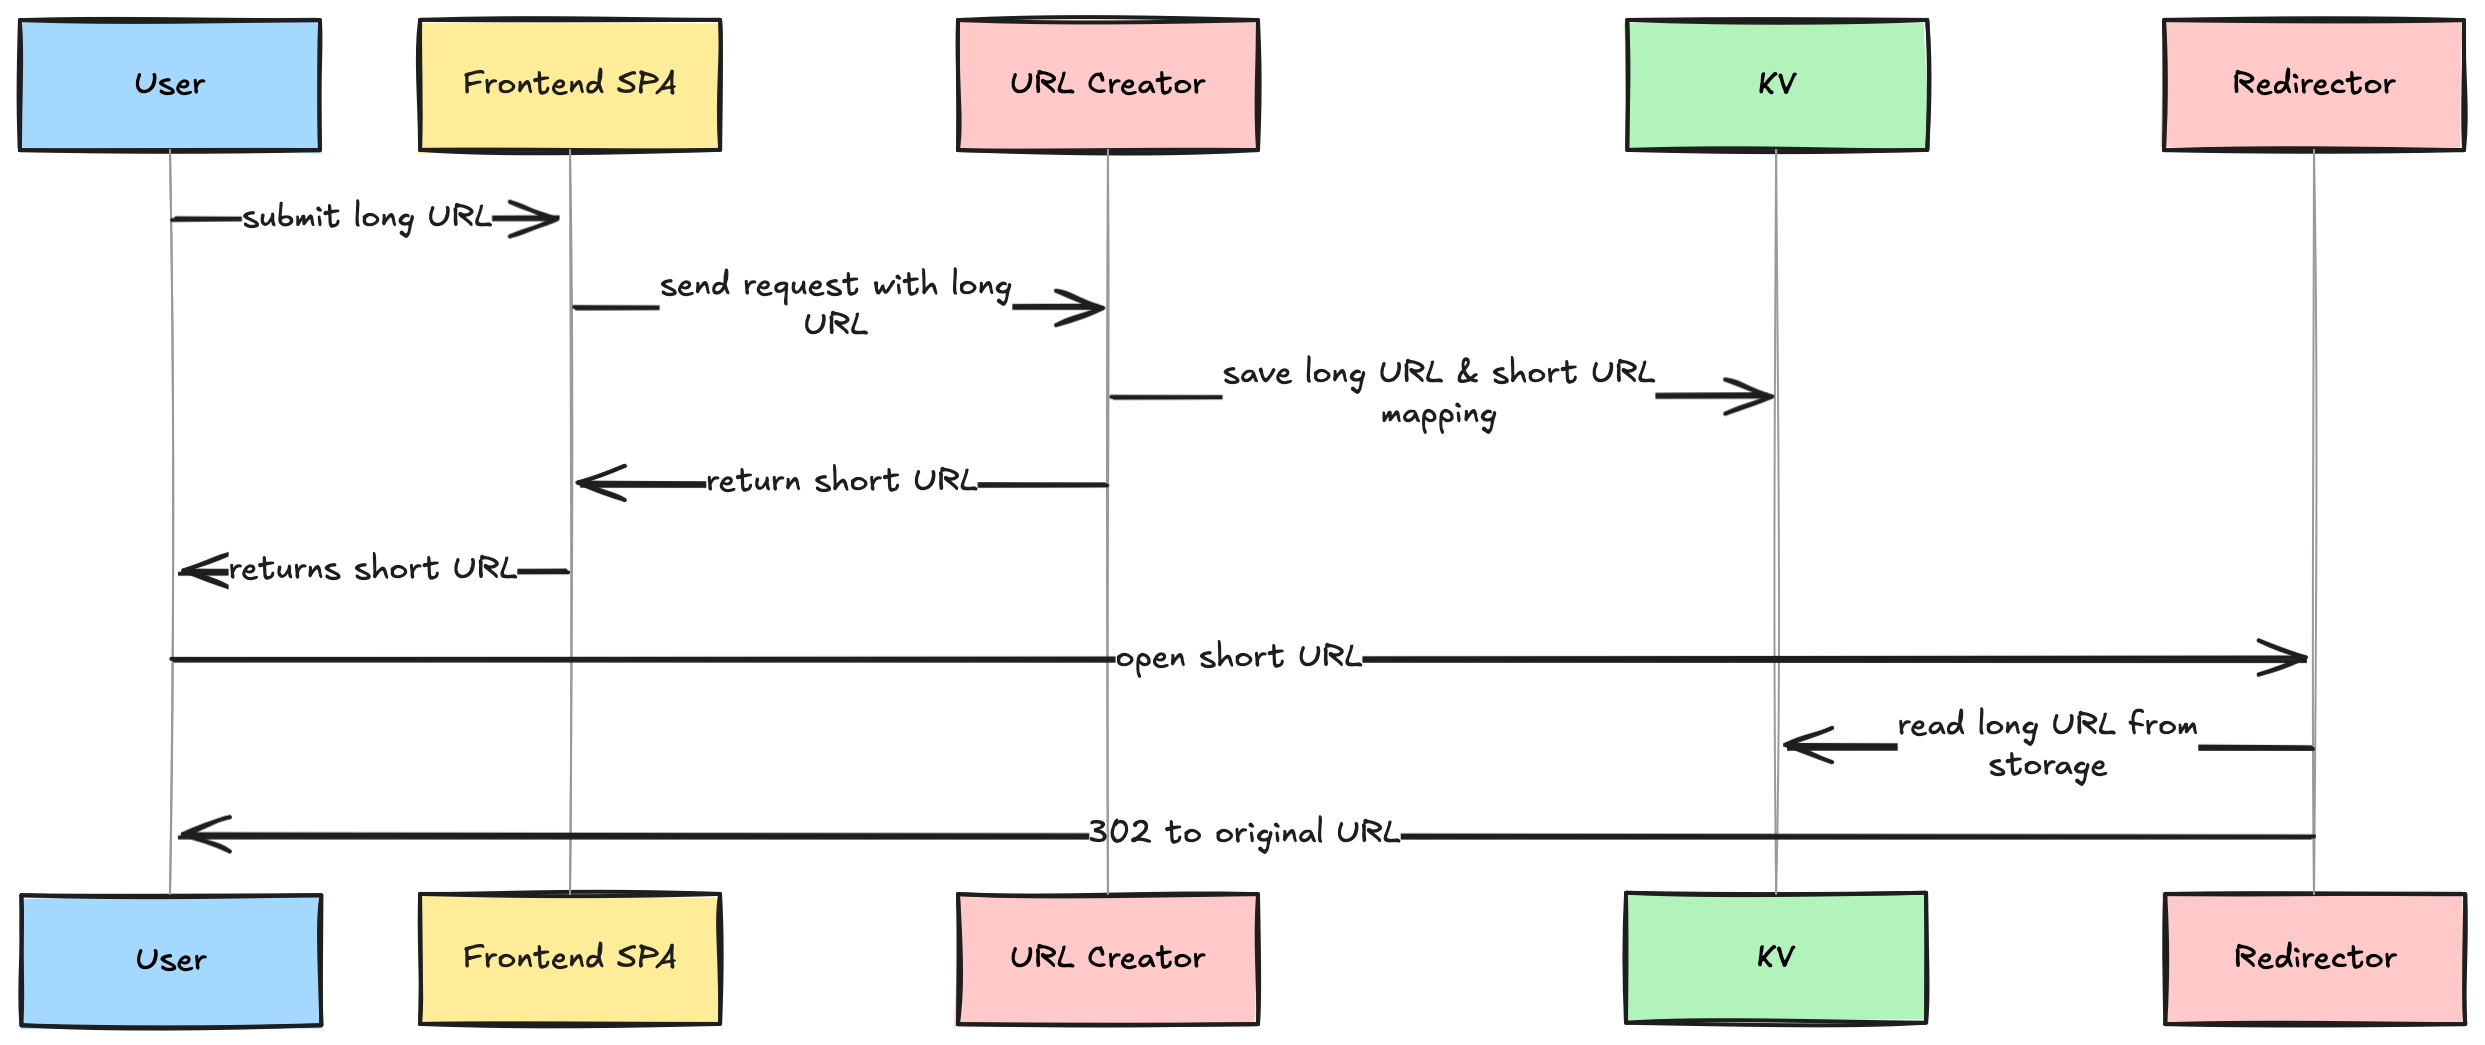
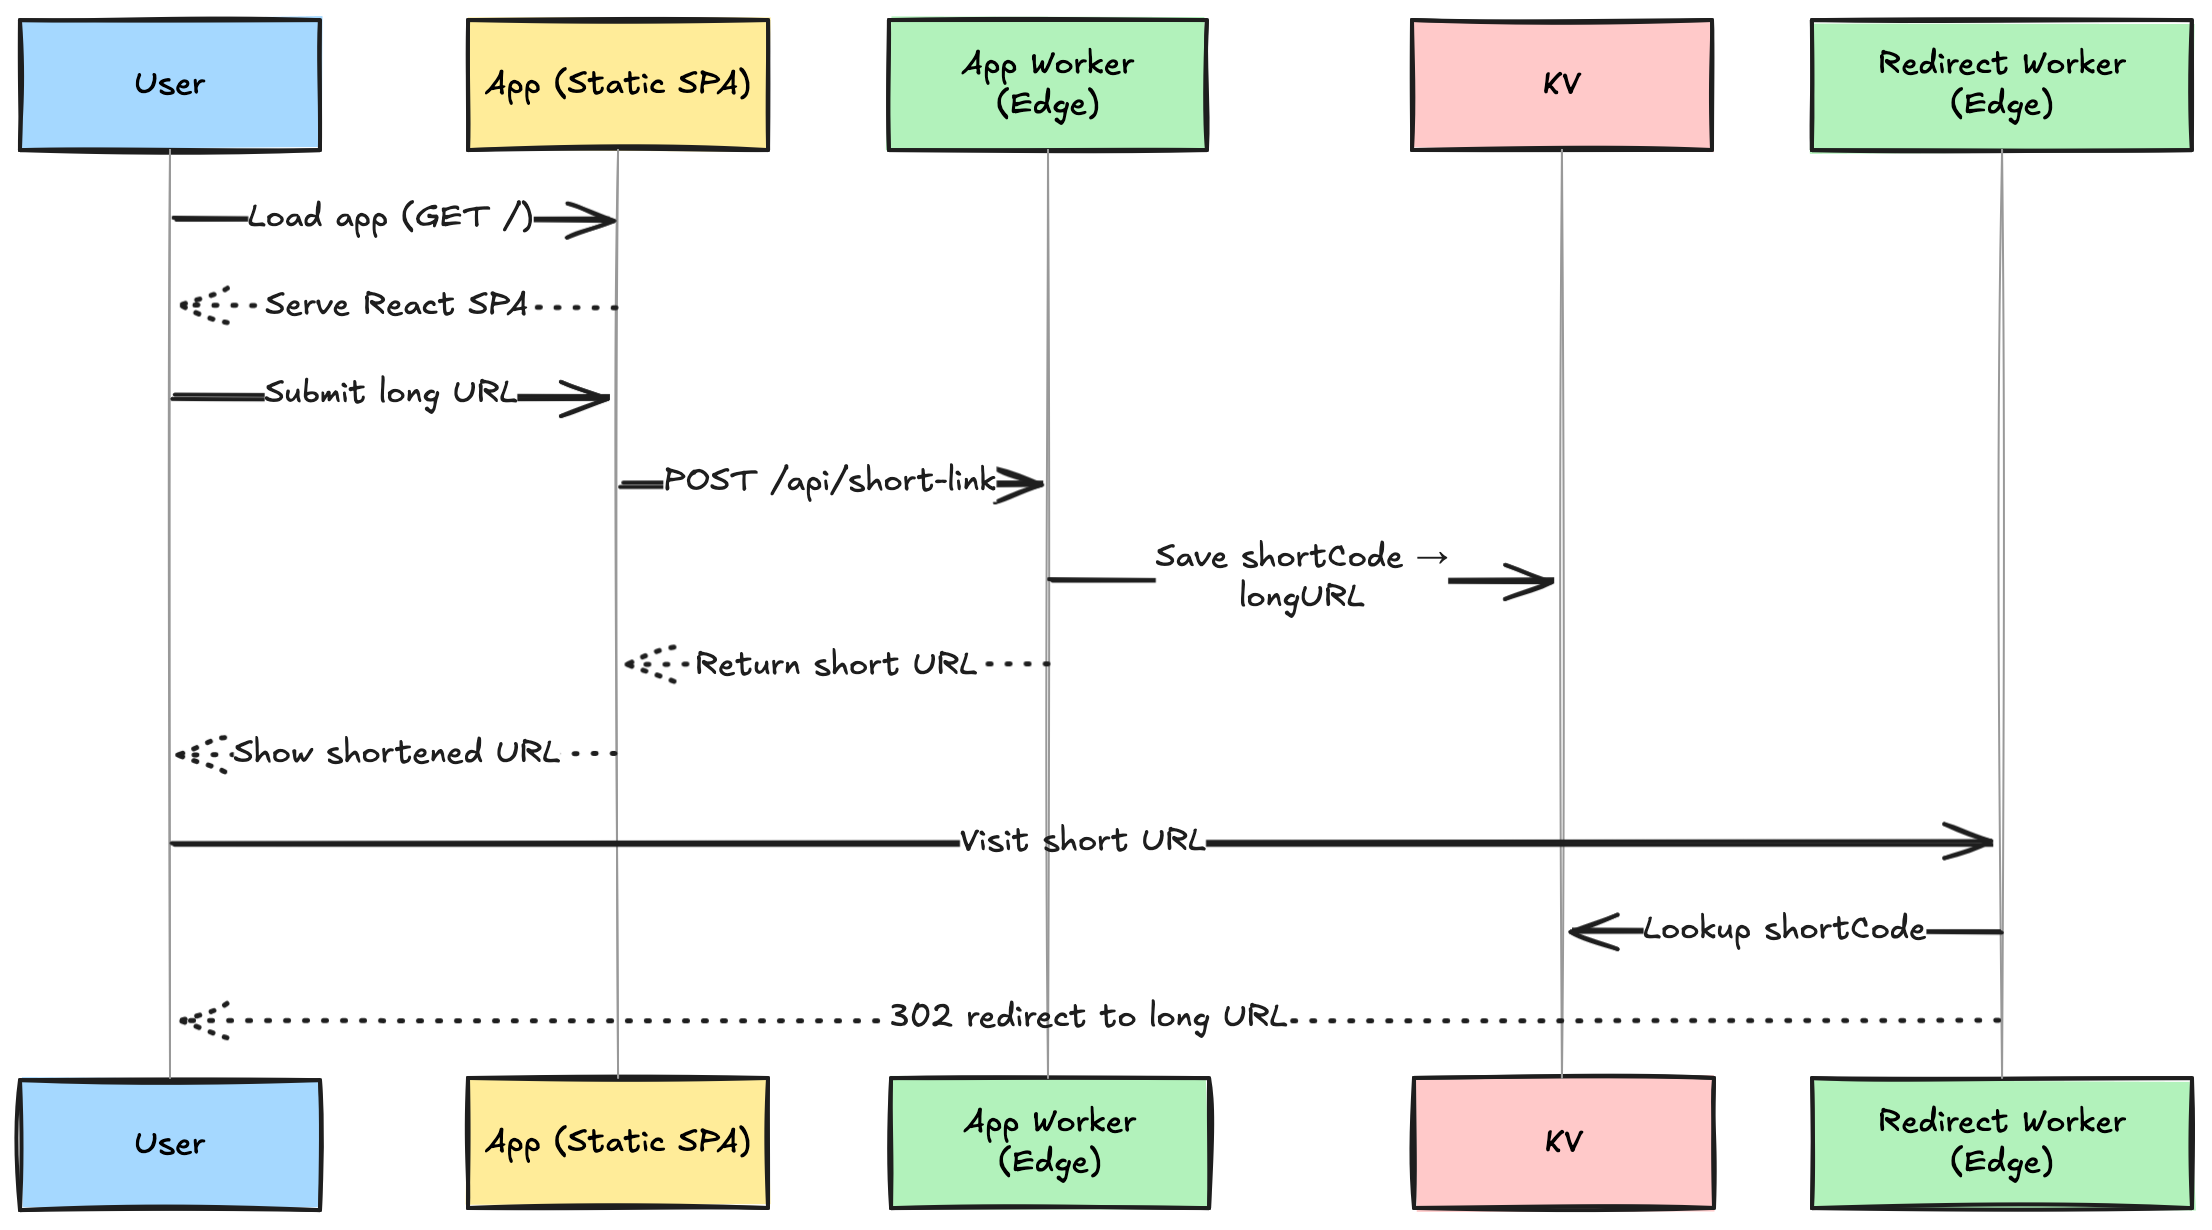
update README  to reflect latest changes

diff --git a/README.md b/README.md
@@ -1,6 +1,6 @@
 # 🔗 Cloudflare URL Shortener
 
-A fully **serverless**, **edge-native** URL shortener built on **Cloudflare’s global infrastructure** — leveraging Workers, KV, Pages, and Pulumi to deliver blazing-fast redirection with minimal vendor lock-in.
+A fully **serverless**, **edge-native** URL shortener built on **Cloudflare’s global infrastructure** — leveraging Workers, KV, and Pulumi to deliver blazing-fast redirection with minimal vendor lock-in.
 
 ![Architecture Diagram](./assets/url-shortener.png)
 
@@ -9,130 +9,126 @@ A fully **serverless**, **edge-native** URL shortener built on **Cloudflare’s 
 ```
 url-shortener/
 ├── apps/
-│ ├── url-creator/ # Cloudflare Worker (POST /shortLink → saves to KV)
-│ ├── redirector/ # Cloudflare Worker (GET /:code → reads from KV, redirects)
-│ └── web/ # React + Vite SPA hosted on Cloudflare Pages
+│   ├── web/         # Cloudflare Worker (React SPA + API routes)
+│   ├── redirector/  # Cloudflare Worker (GET /\:code → reads from KV, redirects)
 ├── packages/
-│ ├── shared/ # Shared logic: shortCode gen, types, utils
-│ └── ui/ # Shared component library (shadcn/ui)
-├── infra/pulumi/ # IaC: DNS, KV, routing
+│   ├── schema/      # Shared Zod schemas for validation, enabling end-to-end type safety
+│   └── ui/          # Shared component library (shadcn/ui)
+├── infra/pulumi/    # IaC: DNS, KV, routing
 ├── .github/workflows/ # CI/CD with GitHub Actions
-├── turbo.json # Turborepo configuration
+├── turbo.json       # Turborepo configuration
+
 ```
 
 ## 🧰 Tech Stack
 
 | Layer         | Tech                                                    |
 | ------------- | ------------------------------------------------------- |
-| Frontend      | React, Vite, Tailwind CSS, `@repo/ui` (shadcn/ui)       |
-| Backend       | Cloudflare Workers (`url-creator`, `redirector`)        |
+| Frontend      | React, Vite, Tailwind CSS, `@workspace/ui` (shadcn/ui)  |
+| Backend       | Cloudflare Workers (`web`, `redirector`)                |
+| Validation    | Zod (`@workspace/schema`)                               |
 | Storage       | Cloudflare KV (eventually consistent, edge-distributed) |
 | Infra-as-Code | Pulumi (TypeScript, Cloudflare provider)                |
 | DevOps        | GitHub Actions, Wrangler CLI, Turborepo                 |
-| Deployment    | Cloudflare Pages, DNS, TLS                              |
+| Deployment    | Cloudflare Workers, DNS, TLS                            |
 
 ## 🧩 Core Components
 
-### 1. **Frontend App** (`apps/web`)
+### 1. **App Worker** (`apps/web`)
 
-- Vite + React SPA hosted on **Cloudflare Pages**
-- Accessible at: `https://shorten.${BASE_DOMAIN}`
-- UI built using reusable components from `@repo/ui`
-- Accepts long URLs and displays shortened versions (with optional QR code)
+- Single Cloudflare Worker that serves both:
+  - **Frontend**: Vite-powered React SPA
+  - **Backend**: API routes for URL shortening (e.g., `POST /api/short-link`)
+- Replaces the previous `url-creator` Worker
+- Uses `assets.not_found_handling: "single-page-application"` for SPA routing
+- Hosted directly on Cloudflare Workers (not Cloudflare Pages)
+- UI built with `@workspace/ui`
+- Uses `@workspace/schema` for request/response validation and typing
+- Designed for future backend expansion (e.g., admin, analytics)
 
-### 2. **Creator Worker** (`apps/url-creator`)
-
-- Cloudflare Worker at `POST https://shorten.${BASE_DOMAIN}/api/short-link`
-- Generates a short code, saves to KV, returns shortened URL
-- Optionally includes base64 QR code
-- Stateless and edge-distributed
-
-### 3. **Redirector Worker** (`apps/redirector`)
+### 2. **Redirector Worker** (`apps/redirector`)
 
 - Cloudflare Worker at `GET https://r.${BASE_DOMAIN}/:code`
-- Fetches original URL from KV and redirects via HTTP 302
-- Returns custom 404 if code not found
-- Designed for ultra-low latency
+- Fetches the original URL from KV and redirects via HTTP 302
+- Returns a custom 404 page for invalid or expired codes
+- Optimized for ultra-low latency
 
-### 4. **UI Component Library** (`packages/ui`)
+### 3. **UI Component Library** (`packages/ui`)
 
-- Shared Tailwind + shadcn/ui component system
-- Used across all frontend surfaces
-- Published as `@repo/ui`
+- Tailwind + shadcn/ui-based design system
+- Shared across all frontend surfaces
+- Published as `@workspace/ui`
+
+### 4. **Schema Module** (`packages/schema`)
+
+- Centralized Zod-based schemas for validation and type inference
+- Shared between frontend and backend to enforce strict contract
+- Examples:
+
+  ```ts
+  // CreateShortLinkRequest
+  z.object({
+    originalUrl: z.string().url(),
+    customCode: z
+      .string()
+      .min(3)
+      .max(20)
+      .regex(/^[a-zA-Z0-9_-]+$/)
+      .optional(),
+    expiresAt: z.string().datetime().optional(),
+  });
+
+  // ShortLink
+  z.object({
+    shortCode: z.string(),
+    originalUrl: z.string().url(),
+    createdAt: z.string().datetime(),
+    expiresAt: z.string().datetime().optional(),
+    clicks: z.number().optional(),
+  });
+  ```
 
 ## ⚙ Infrastructure & Configuration
 
-- **Pulumi** handles provisioning:
-  - DNS records (`shorten.*`, `r.*`)
-  - KV namespaces
-  - Worker route bindings
+- Turborepo manages the monorepo
 - Each Worker has its own `wrangler.jsonc` for:
-  - Entry point config
-  - KV/environment bindings
-  - Compatibility settings
+  - Entry points
+  - KV bindings
+  - Asset/config settings
 
 ## 🔄 CI/CD Pipeline
 
-Using **GitHub Actions**:
+- GitHub Actions for:
+  - Building frontend assets
+  - Deploying Workers
+  - Running tests and linting
+- Wrangler used for deploying Workers to Cloudflare
 
-- On push to `main`:
-  1. Deploy frontend to Cloudflare Pages
-  2. Publish Workers via `wrangler publish`
-  3. Run `pulumi up` to apply infrastructure updates
+## 📦 Package Management
 
-Secrets (Cloudflare + Pulumi tokens) are securely stored in **GitHub Secrets**.
+- Uses `pnpm` with workspace configuration
+- Shared packages (`shared`, `ui`) managed efficiently across the repo
 
-## 🧠 Design Decisions
+## 🏗 Infrastructure
 
-### Why Cloudflare Workers?
+- Pulumi manages:
+  - DNS
+  - KV namespaces
+  - Worker routes
+- Cloudflare Workers handle all compute logic
+- Cloudflare KV provides globally distributed, edge-accessible storage
 
-- Edge-based execution = minimal latency worldwide
-- Stateless and globally replicated
-- Instant cold starts and easy scaling
-
-### Why Cloudflare KV?
-
-- Ideal for simple, read-heavy short-link storage
-- Integrated directly into the edge runtime
-- Low cost and fast reads
-- ❗ Not suitable for real-time writes or analytics (eventual consistency)
-
-### Why Use the Full Cloudflare Stack?
-
-- Single edge platform = consistent routing, deployment, and DNS
-- Easier dev experience and cohesive security model
-- Still portable: logic is isolated from platform APIs for easy migration
+Infrastructure bindings are abstracted to make future migrations easy.
 
 ## 🔓 Vendor Portability
-
-Although built on Cloudflare, components are **easily swappable**:
 
 | Cloudflare  | Alternative                                     |
 | ----------- | ----------------------------------------------- |
 | Workers     | Vercel Edge Functions, Deno Deploy, Lambda@Edge |
 | KV          | Upstash, DynamoDB, EdgeDB                       |
-| Pages       | Vercel, Netlify, Firebase Hosting               |
 | Pulumi (CF) | Pulumi AWS/Azure, Terraform, CDK                |
 
-Infra and platform bindings are abstracted, making migration possible without changing core logic.
-
----
-
-## ✅ Security & Best Practices
-
-- **High-entropy short codes** (avoid sequential IDs)
-- **Rate limiting** via Cloudflare Rules or Worker logic
-- **URL validation** (optional: integrate Safe Browsing APIs)
-- **Custom 404s** and QR code support
-- **Testing**: Suggested use of Miniflare, Vitest, and Playwright/Cypress
-
-## 🔍 Observability & Monitoring
-
-- Not yet implemented, but should include:
-  - Redirect counts
-  - Failed lookups
-  - Latency metrics
-- Use Cloudflare Analytics Engine, Logflare, or Sentry
+> Platform bindings are abstracted — migration won’t require core rewrites.
 
 ## 🚧 Limitations & Considerations
 
@@ -151,13 +147,14 @@ Infra and platform bindings are abstracted, making migration possible without ch
 - ⚙ Admin panel to view/manage links
 - ⏱ Link expiration (TTL support)
 - 🌘 Dark mode and PWA frontend
+- 🔐 Auth for backend operations
 
 ## 🧪 Local Development
 
 ### Prerequisites
 
-- Node.js (version specified in package.json's engines field, e.g., >=20)
-- pnpm (version specified in package.json's packageManager field, e.g., pnpm@10.4.1)
+- Node.js (see `package.json` engines field)
+- pnpm (e.g., `pnpm@10.4.1` as per `packageManager`)
 
 ### Commands
 
@@ -169,6 +166,6 @@ pnpm install
 pnpm dev
 ```
 
-# 📜 License
+## 📜 License
 
 MIT © TrungUng
